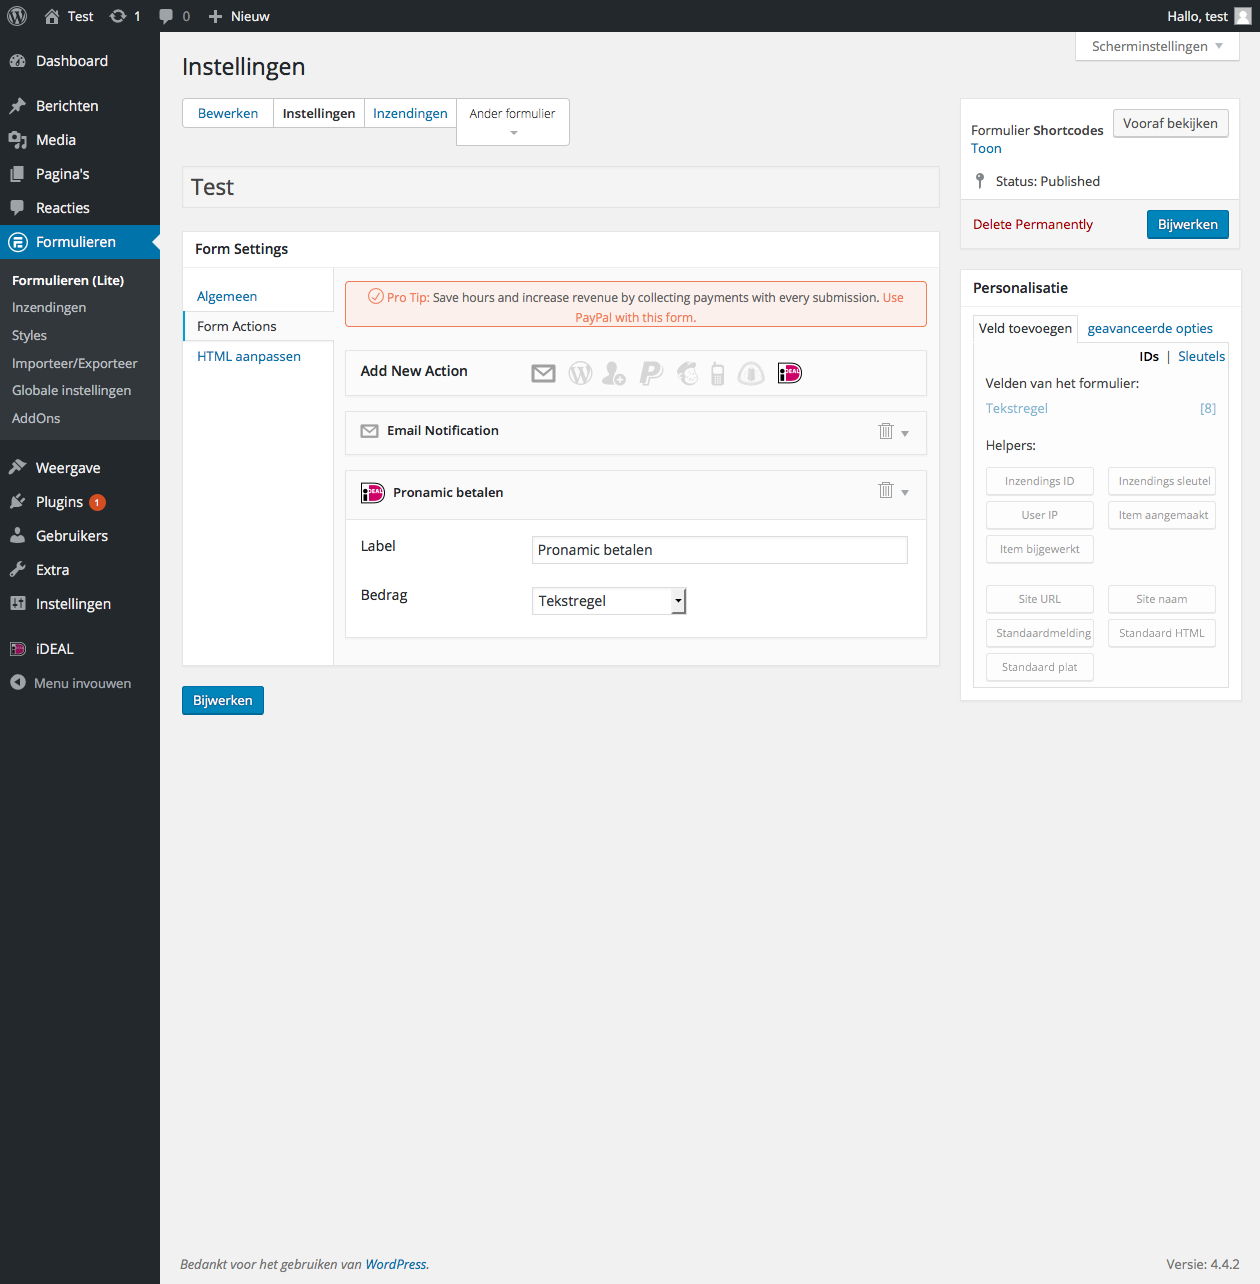
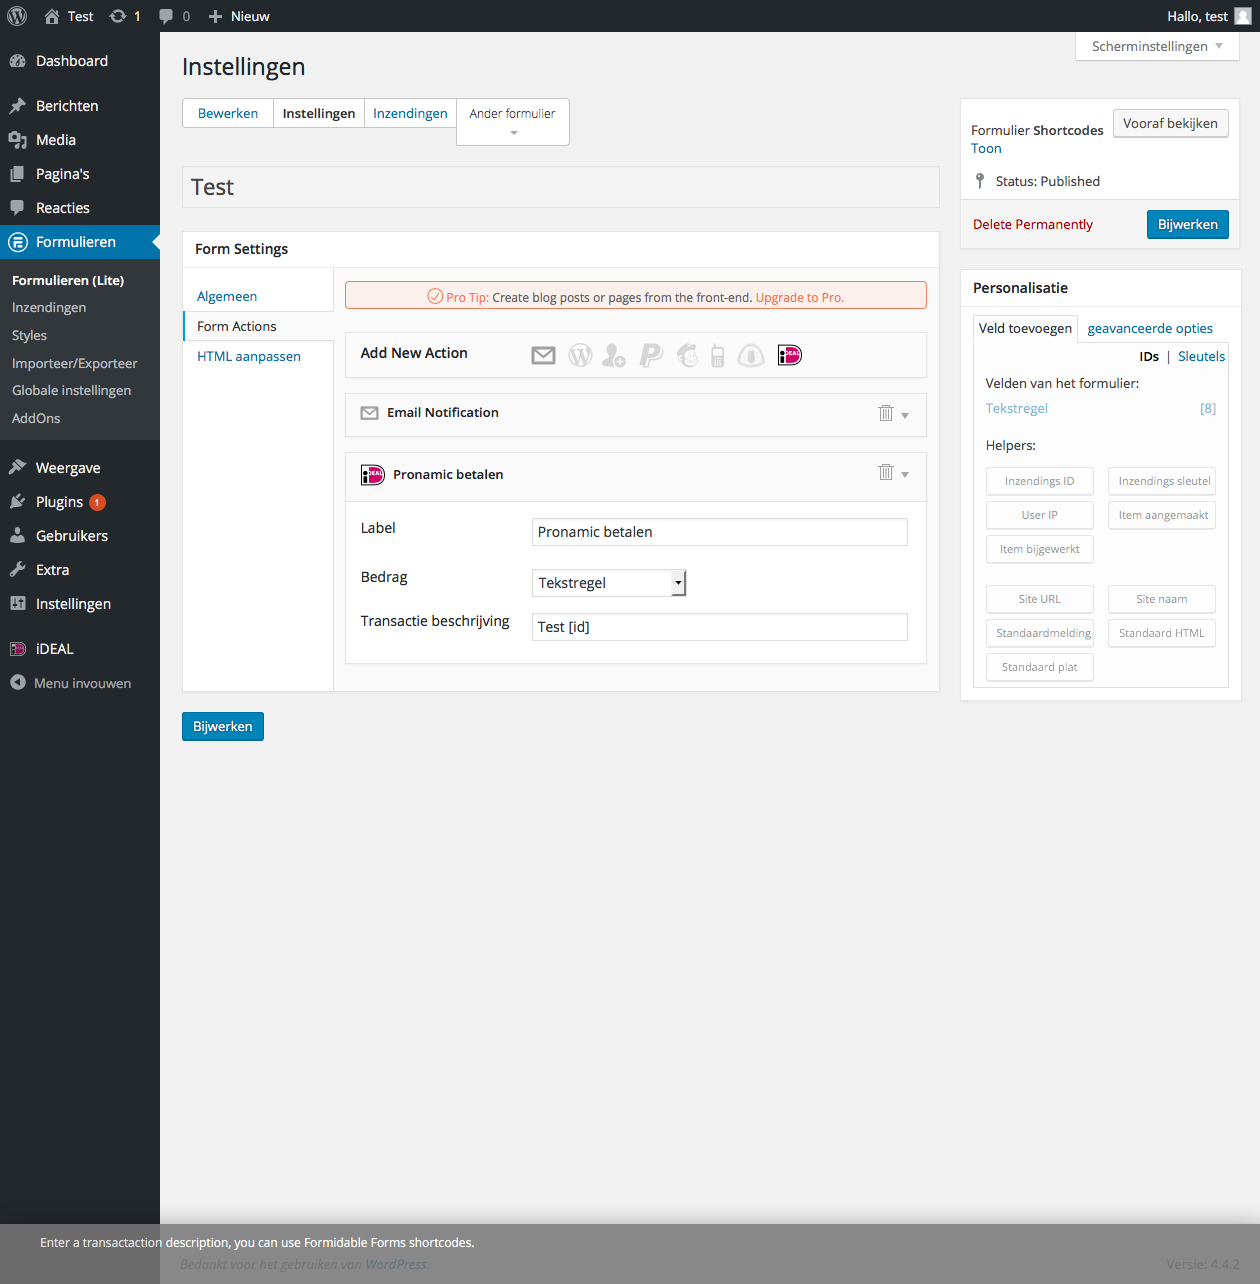
Added support for transaction description and also assert on Buckaroo payment page.

diff --git a/tests/FormidableTest.php b/tests/FormidableTest.php
@@ -147,6 +147,12 @@ class Pronamic_WP_Pay_TestSuite_FormidableTest extends Pronamic_WP_Pay_TestSuite
 		$select = new WebDriverSelect( $this->webDriver->findElement( WebDriverBy::id( 'brq_SERVICE_ideal_issuer' ) ) );
 		$select->selectByValue( 'RABONL2U' );
 
+		// Check description
+		$description = $this->webDriver->findElement( WebDriverBy::cssSelector( 'tr.bpe_payment_description td' ) )->getText();
+		
+		$this->assertStringMatchesFormat( 'Test %d', $description );
+
+		// Continue
 		$this->webDriver->findElement( WebDriverBy::id( 'button_continue' ) )->click();
 
 		// Payment Status
@@ -205,10 +211,15 @@ class Pronamic_WP_Pay_TestSuite_FormidableTest extends Pronamic_WP_Pay_TestSuite
 
 		$this->wait_for_jquery_ajax();
 
-		$amount_field = $this->webDriver->findElement( WebDriverBy::cssSelector( '.frm_single_pronamic_pay_settings select[name*="pronamic_pay_amount_field"]' ) );
+		// Amount field
+		$element = $this->webDriver->findElement( WebDriverBy::cssSelector( '.frm_single_pronamic_pay_settings select[name*="pronamic_pay_amount_field"]' ) );
 
-		$select = new WebDriverSelect( $amount_field );
+		$select = new WebDriverSelect( $element );
 		$select->selectByValue( $this->field_id );
+
+		// Transaction description field
+		$element = $this->webDriver->findElement( WebDriverBy::cssSelector( '.frm_single_pronamic_pay_settings input[name*="pronamic_pay_transaction_description"]' ) );
+		$element->sendKeys( 'Test [id]' );
 
 		$this->take_screenshot( 'new-form-action' );
 
